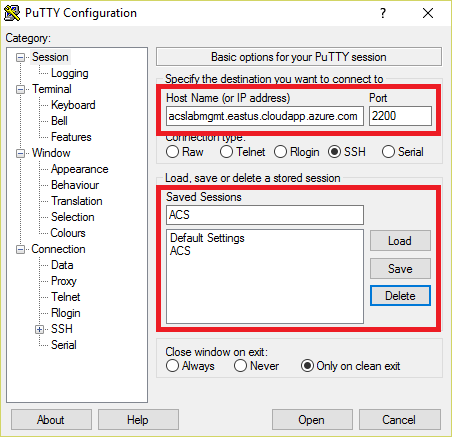
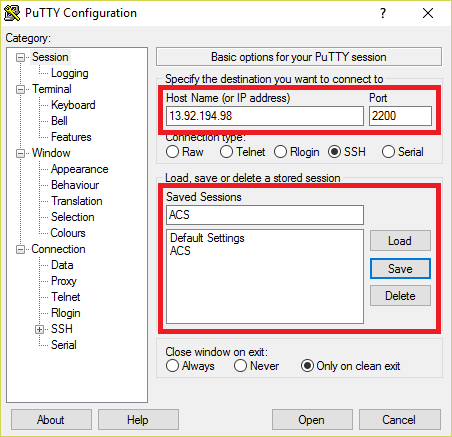
Updated Docker/ACS lab

Changed region(s): [[0.3407, 0.1785, 0.9602, 0.3272], [0.3407, 0.4165, 0.9602, 0.7735], [0.8053, 0.5652, 0.9602, 0.714]]

diff --git a/Open Dev Framework/Docker/Session 2 - Hands On/Docker and Azure Container Service HOL.html b/Open Dev Framework/Docker/Session 2 - Hands On/Docker and Azure Container Service HOL.html
@@ -514,8 +514,7 @@ vertical-align:1px;
 <p>The following are required to complete this hands-on lab:</p>
 
 <ul>
-<li>An active Microsoft Azure subscription, or <a href="http://aka.ms/WATK-FreeTrial">sign up for a free trial</a>
-</li>
+<li>An active Microsoft Azure subscription. If you don't have one, <a href="http://aka.ms/WATK-FreeTrial">sign up for a free trial</a>.</li>
 <li>
 <a href="http://www.chiark.greenend.org.uk/%7Esgtatham/putty/download.html">PuTTY</a> (Windows users only). You can either install the full package using the MSI installer, or install just two binaries: putty.exe and puttygen.exe.</li>
 <li>Docker client (also known as the <em>Docker Engine CLI</em>) for <a href="https://get.docker.com/builds/Windows/x86_64/docker-latest.zip">Windows</a>, <a href="https://get.docker.com/builds/Darwin/x86_64/docker-latest.tgz">macOS</a>, or <a href="https://get.docker.com/builds/Linux/x86_64/docker-latest.tgz">Linux</a>
@@ -679,25 +678,18 @@ ls
 <p><em>Opening the master load balancer</em></p>
 </li>
 <li>
-<p>Click the IP address under "Public IP Address."</p>
+<p>Hover over the IP address under "Public IP address." Wait for a <strong>Copy</strong> button to appear, and then click it to copy the master load balancer's IP address to the clipboard.</p>
 
-<p><a href="Images/docker-click-ip-address.png" target="_blank"><img src="Images/docker-click-ip-address.png" alt="The master load balancer's public IP" style="max-width:100%;"></a></p>
+<p><a href="Images/docker-click-ip-address.png" target="_blank"><img src="Images/docker-click-ip-address.png" alt="The master load balancer's public IP address" style="max-width:100%;"></a></p>
 
-<p><em>The master load balancer's public IP</em></p>
+<p><em>The master load balancer's public IP address</em></p>
 </li>
-<li>
-<p>Hover over the DNS name under "DNS Name." Wait for a <strong>Copy</strong> button to appear, and then click it to copy the master load balancer's DNS name to the clipboard.</p>
-
-<p><a href="Images/docker-copy-dns-name.png" target="_blank"><img src="Images/docker-copy-dns-name.png" alt="Copying the DNS name" style="max-width:100%;"></a></p>
-
-<p><em>Copying the DNS name</em></p>
-</li>
-<li><p><strong>If you are running Windows, skip to Step 9</strong>. Otherwise, proceed to Step 5.</p></li>
+<li><p><strong>If you are running Windows, skip to Step 8</strong>. Otherwise, proceed to Step 4.</p></li>
 <li><p>On your Mac or Linux machine, launch a terminal window (or return to the one you opened in Exercise 1 if it's still open).</p></li>
 <li>
-<p>Execute the following command to SSH in to the Azure Container Service, replacing <em>dnsname</em> with the DNS name on the clipboard:</p>
+<p>Execute the following command to SSH in to the Azure Container Service, replacing <em>ipaddress</em> with the IP address on the clipboard:</p>
 
-<pre>ssh dockeruser@<i>dnsname</i> -p 2200 -L 22375:127.0.0.1:2375
+<pre>ssh dockeruser@<i>ipaddress</i> -p 2200 -L 22375:127.0.0.1:2375
 </pre>
 
 <blockquote>
@@ -717,7 +709,7 @@ ls
 </li>
 <li><p>Leave the terminal window open and <strong>proceed to <a href="#Exercise4">Exercise 4</a>. The remaining steps in this exercise are for Windows users only</strong>. </p></li>
 <li>
-<p>Launch PuTTY and paste the DNS name on the clipboard into the <strong>Host Name (or IP address)</strong> box. Set the port number to <strong>2200</strong> and type "ACS" (without quotation marks) into the <strong>Saved Sessions</strong> box. Click the <strong>Save</strong> button to save these settings under that name.</p>
+<p>Launch PuTTY and paste the IP address on the clipboard into the <strong>Host Name (or IP address)</strong> box. Set the port number to <strong>2200</strong> and type "ACS" (without quotation marks) into the <strong>Saved Sessions</strong> box. Click the <strong>Save</strong> button to save these settings under that name.</p>
 
 <blockquote>
 <p>Why port 2200 instead of port 22, which is the default for SSH? Because the load balancer you're connecting to listens on port 2200 and forwards the SSH messages it receives to port 22 on the master VM.</p>
@@ -815,7 +807,7 @@ ls
 <li>
 <p>The container is now running. The next task is to execute the Python script in the root of the file system in the running container. To do that, execute the following command:</p>
 
-<pre>docker exec -it acslab /convertimages.py
+<pre>docker exec -it acslab python /convertimages.py
 </pre>
 </li>
 <li>

diff --git a/Open Dev Framework/Docker/Session 2 - Hands On/resources/convertimages.py b/Open Dev Framework/Docker/Session 2 - Hands On/resources/convertimages.py
@@ -5,12 +5,10 @@ import subprocess
 inputdir = os.path.dirname(os.path.realpath(__file__)) + "/input"
 outputdir = os.path.dirname(os.path.realpath(__file__)) + "/output"
 
-
-
 for imagefile in os.listdir(inputdir):
     cli = "convert {input} {option} {output}".format(
         input=inputdir + "/" + imagefile,
-        option="-grayscale Rec709Luma",
+        option="-colorspace Gray",
         output=outputdir + "/" + imagefile)
 
     print "Converting: " + imagefile

diff --git a/Open Dev Framework/Docker/Session 2 - Hands On/Docker and Azure Container Service HOL.md b/Open Dev Framework/Docker/Session 2 - Hands On/Docker and Azure Container Service HOL.md
@@ -37,7 +37,7 @@ In this hands-on lab, you will learn how to:
 
 The following are required to complete this hands-on lab:
 
-- An active Microsoft Azure subscription, or [sign up for a free trial](http://aka.ms/WATK-FreeTrial)
+- An active Microsoft Azure subscription. If you don't have one, [sign up for a free trial](http://aka.ms/WATK-FreeTrial).
 - [PuTTY](http://www.chiark.greenend.org.uk/~sgtatham/putty/download.html) (Windows users only). You can either install the full package using the MSI installer, or install just two binaries: putty.exe and puttygen.exe.
 - Docker client (also known as the *Docker Engine CLI*) for [Windows](https://get.docker.com/builds/Windows/x86_64/docker-latest.zip), [macOS](https://get.docker.com/builds/Darwin/x86_64/docker-latest.tgz), or [Linux](https://get.docker.com/builds/Linux/x86_64/docker-latest.tgz)
 
@@ -170,26 +170,20 @@ In this exercise, you will establish an SSH connection to the container service 
 
 	_Opening the master load balancer_
 
-1. Click the IP address under "Public IP Address."
+1. Hover over the IP address under "Public IP address." Wait for a **Copy** button to appear, and then click it to copy the master load balancer's IP address to the clipboard.
 
-	![The master load balancer's public IP](Images/docker-click-ip-address.png)
+	![The master load balancer's public IP address](Images/docker-click-ip-address.png)
 
-	_The master load balancer's public IP_
+	_The master load balancer's public IP address_
 
-1. Hover over the DNS name under "DNS Name." Wait for a **Copy** button to appear, and then click it to copy the master load balancer's DNS name to the clipboard.
-
-	![Copying the DNS name](Images/docker-copy-dns-name.png)
-
-	_Copying the DNS name_
-
-1. **If you are running Windows, skip to Step 9**. Otherwise, proceed to Step 5.
+1. **If you are running Windows, skip to Step 8**. Otherwise, proceed to Step 4.
 
 1. On your Mac or Linux machine, launch a terminal window (or return to the one you opened in Exercise 1 if it's still open).
 
-1. Execute the following command to SSH in to the Azure Container Service, replacing *dnsname* with the DNS name on the clipboard:
+1. Execute the following command to SSH in to the Azure Container Service, replacing *ipaddress* with the IP address on the clipboard:
 
 	<pre>
-	ssh dockeruser@<i>dnsname</i> -p 2200 -L 22375:127.0.0.1:2375
+	ssh dockeruser@<i>ipaddress</i> -p 2200 -L 22375:127.0.0.1:2375
 	</pre>
 
 	> The purpose of the -L switch is to forward traffic transmitted through port 22375 on the local machine (that's the port used by the **docker** command you will be using shortly) to port 2375 at the other end. Docker Swarm listens on port 2375. The -p switch instructs SSH to use port 2200 rather than the default 22. The load balancer you're connecting to listens on port 2200 and forwards the SSH messages it receives to port 22 on the master VM.
@@ -204,7 +198,7 @@ In this exercise, you will establish an SSH connection to the container service 
 
 1. Leave the terminal window open and **proceed to [Exercise 4](#Exercise4). The remaining steps in this exercise are for Windows users only**. 
 
-1. Launch PuTTY and paste the DNS name on the clipboard into the **Host Name (or IP address)** box. Set the port number to **2200** and type "ACS" (without quotation marks) into the **Saved Sessions** box. Click the **Save** button to save these settings under that name.
+1. Launch PuTTY and paste the IP address on the clipboard into the **Host Name (or IP address)** box. Set the port number to **2200** and type "ACS" (without quotation marks) into the **Saved Sessions** box. Click the **Save** button to save these settings under that name.
 
 	> Why port 2200 instead of port 22, which is the default for SSH? Because the load balancer you're connecting to listens on port 2200 and forwards the SSH messages it receives to port 22 on the master VM.
 
@@ -286,7 +280,7 @@ Now comes the fun part: creating a Docker image and running it inside a containe
 1. The container is now running. The next task is to execute the Python script in the root of the file system in the running container. To do that, execute the following command:
 
 	<pre>
-	docker exec -it acslab /convertimages.py
+	docker exec -it acslab python /convertimages.py
 	</pre>
 
 1. If the Python script ran successfully, the "output" subdirectory in the container should contain grayscale versions of the JPG files in the "input" subdirectory. Use the following command to copy the files from the "output" subdirectory in the container to the "output" subdirectory on the local machine:
